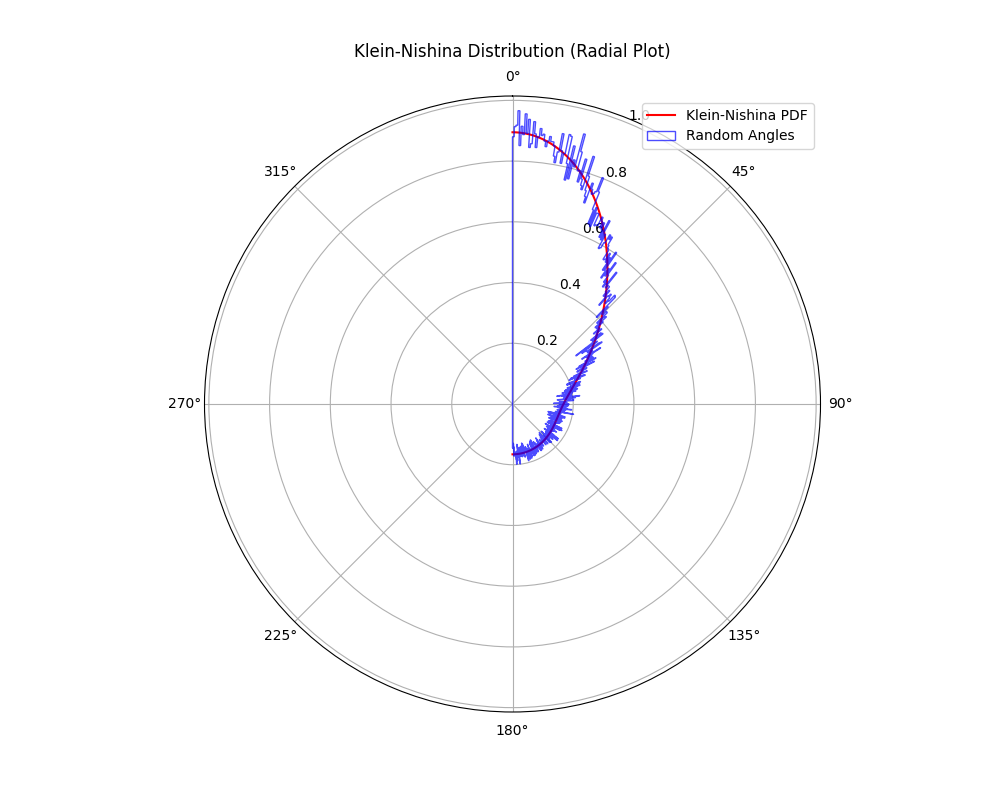
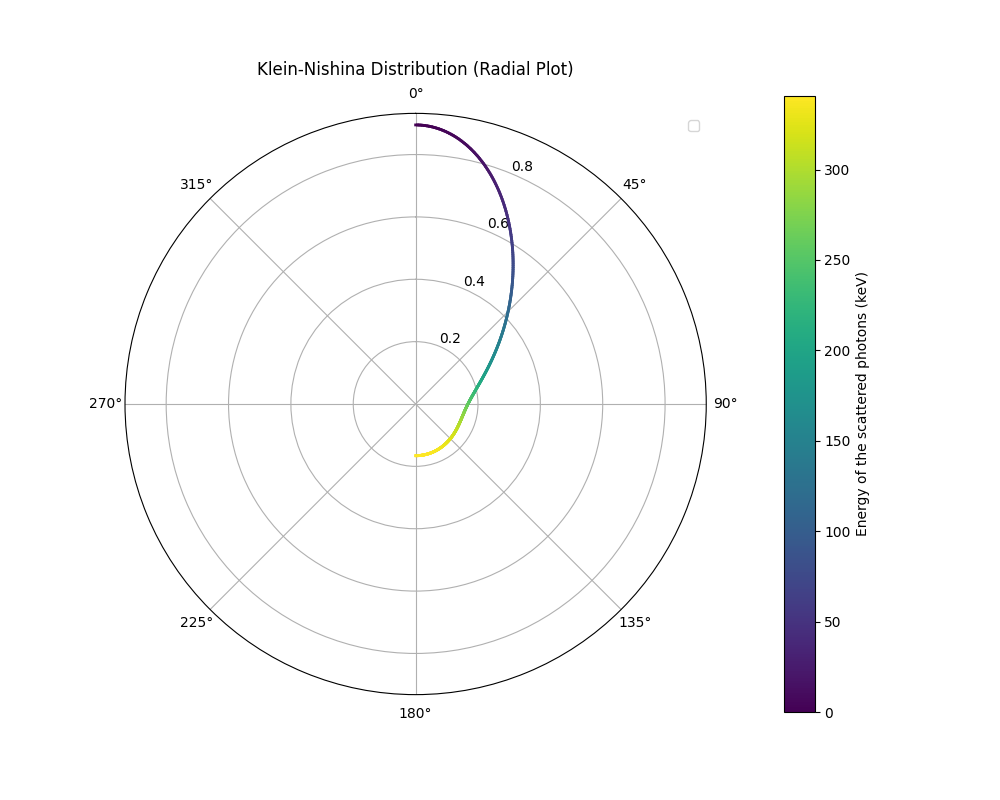
changes to klein nishina angle angle_distributions

diff --git a/Simulation/codes/pdf_angles.py b/Simulation/codes/pdf_angles.py
@@ -65,12 +65,36 @@ plt.grid(True)
 plt.savefig(file_path + 'angle_distributions_Klein_Nishina.png')
 
 
+norm = mcolors.Normalize(vmin=np.min(random_electron_energies), vmax=np.max(random_electron_energies))
+cmap = cm.viridis
 
 plt.figure(figsize=(10, 8))
 ax = plt.subplot(1, 1, 1, polar=True)
+photon_energies_range = [photon.energy - photon.compton_scattering(angle) for angle in angle_range]
+
+
+# Disegna la curva segmentando e colorando ogni tratto in base al valore di energia
+for i in range(len(angle_range) - 1):
+    theta_seg = angle_range[i:i+2]
+    r_seg = normalized_pdf_values[i:i+2]
+    # Il colore del segmento viene scelto in base all'energia del punto corrente
+    color = cmap(norm(photon_energies_range[i]))
+    ax.plot(theta_seg, r_seg, color=color, linewidth=2)
+
+#Se vuoi chiudere la curva, disegna anche l'ultimo segmento che collega l'ultimo e il primo punto:
+#theta_seg = [angle_range[-1], angle_range[0]]
+#r_seg = [normalized_pdf_values[-1], normalized_pdf_values[0]]
+#color = cmap(norm(random_electron_energies[-1]))
+#ax.plot(theta_seg, r_seg, color=color, linewidth=2)
+
+# Aggiungi la colorbar per indicare le energie
+sm = cm.ScalarMappable(cmap=cmap, norm=norm)
+sm.set_array([])
+cbar = plt.colorbar(sm, ax=ax, pad=0.1)
+cbar.set_label('Energy of the scattered photons (keV)')
 
 # Fill between 0 and the normalized PDF values to get a radial "area" plot
-ax.plot(angle_range, normalized_pdf_values, label='Klein-Nishina PDF', color='red')
+#ax.plot(angle_range, normalized_pdf_values, label='Klein-Nishina PDF', color='red')
 
 # Optional: prettify
 ax.set_theta_zero_location("N")  # 0 rad at the top
